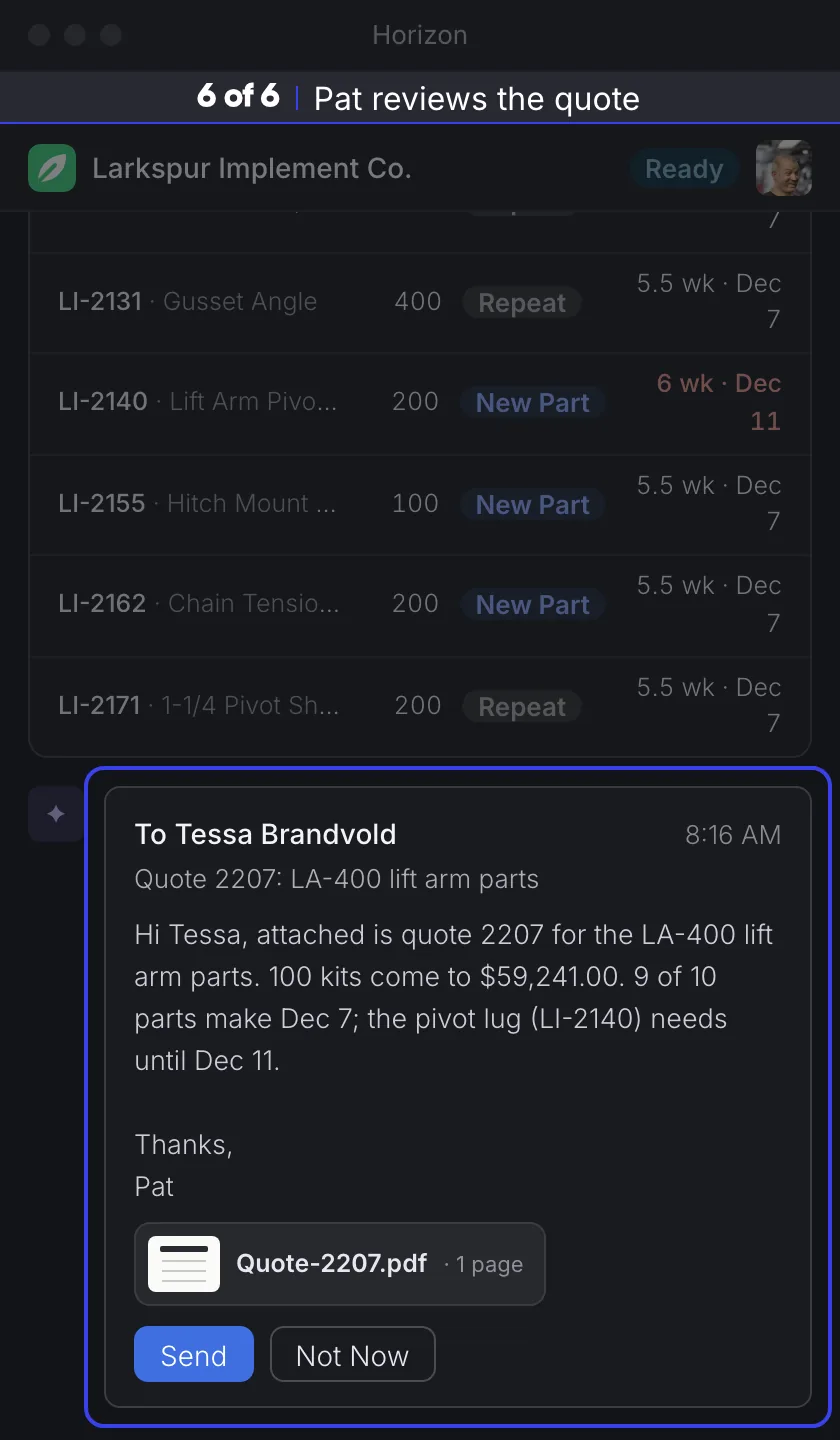
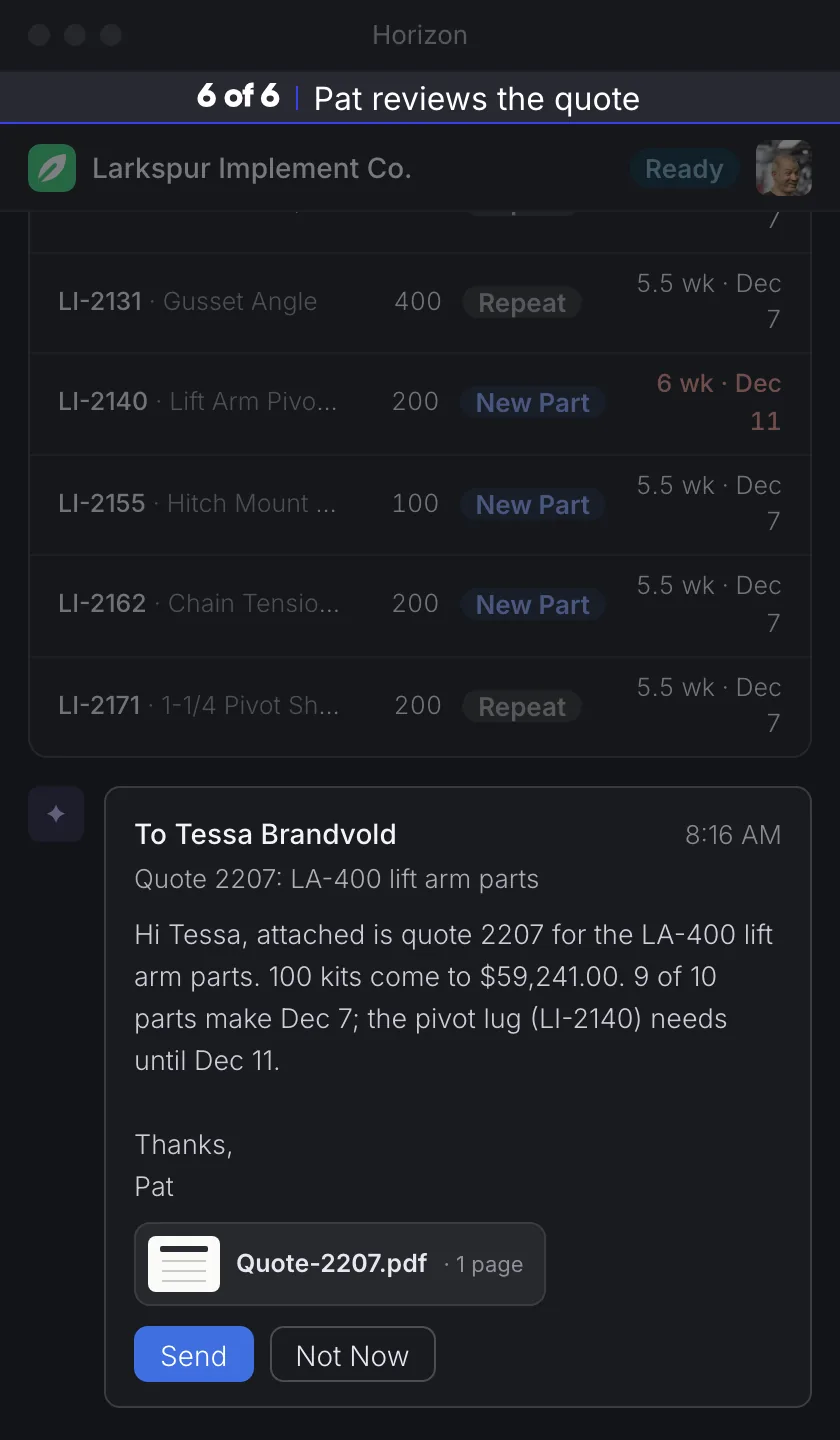
horizon: the focus system stays on the hero loop only, as a spotlight (dim mask cut to the lit element's own box, following it every frame, 250ms moves; no drawn ring); thread and overnight loops back to their pre-focus state; Prairie Powder Coat mark joins shared/marks; hero posters re-rendered

Changed region(s): [[0.0929, 0.5312, 1.0, 1.0]]

diff --git a/horizon/conversation-ribbon/index.html b/horizon/conversation-ribbon/index.html
@@ -11,9 +11,6 @@
   stage header with the big figure and the 4-segment RFQ Quote PO Sales Order bar, stage details card, Quoted Items with
   3 rows + All 10), the thread in the center (no right column), composer. One canvas caption under the window.
 
-  Focus pass (Nov 10): one lit region at a time (ring #3840EA, the rest dims to ~45%), the ring follows the thread scroll, and the
-  now-line in the title bar counts 8 steps: RFQ, estimate, quote drafted, sent, discount decision, sent at $54,501, PO checked, sales order.
-  The rail updates 0.4s after each item under the dim (a quiet crossfade outside the focus).
   Beats (seconds; every new thread item rises 6px / 350ms, the thread scrolls 600ms, rail and pill update 0.4s after):
     0.0  resolved: the whole thread, ending on "Passed contract review" and "Created sales order SO3318 in Fulcrum";
          rail "Sales Order · $54,501.00 · SO3318 · PO 77812-R1", all four segments lit, pill Ordered (hold 3.0s)
@@ -241,18 +238,6 @@
   .hz-conversation-ribbon *, .hz-conversation-ribbon *::before, .hz-conversation-ribbon *::after { transition: none !important; animation: none !important; }
 }
 
-
-/* ---------- focus system (Nov 10): one lit region, the rest dims; the now-line in the title bar names the step ---------- */
-.hz-conversation-ribbon { --hz-dim: rgba(19,20,24,.55); --hz-ease: cubic-bezier(.45,0,.55,1); }
-.hz-conversation-ribbon .hz-focus { position: absolute; left: 0; top: 0; width: 0; height: 0; border: 2px solid #3840EA; border-radius: 10px; box-shadow: 0 0 14px 4000px var(--hz-dim); opacity: 0; z-index: 40; pointer-events: none;
-  transition: left .3s var(--hz-ease), top .3s var(--hz-ease), width .3s var(--hz-ease), height .3s var(--hz-ease), opacity .3s ease; }
-.hz-conversation-ribbon .hz-focus.is-on { opacity: 1; }
-.hz-conversation-ribbon .hz-now { position: absolute; right: 14px; top: 6px; height: 24px; z-index: 60; display: inline-flex; align-items: center; gap: 8px; padding: 0 10px 0 9px; border-radius: 6px; background: #292932; border: 1px solid #3840EA; color: #fff; font-size: 13px; line-height: 1; white-space: nowrap; pointer-events: none; font-family: var(--font); }
-.hz-conversation-ribbon .hz-now b { font-family: 'Gilroy', 'Inter', sans-serif; font-weight: 600; font-variant-numeric: tabular-nums; }
-.hz-conversation-ribbon .hz-now b::after { content: ''; display: inline-block; width: 1px; height: 12px; background: #3840EA; margin: 0 0 -2px 8px; }
-.hz-conversation-ribbon.is-phone .hz-now { left: 0; right: 0; top: 36px; height: 26px; border-radius: 0; border-width: 0 0 1px; justify-content: center; font-size: 16px; }
-.hz-conversation-ribbon.is-phone .hzk-app { padding-top: 26px; }
-
 /* ---------- phone: a 420x720 stage. The thread fills the width; the sales-order panel is hidden. ---------- */
 .hz-conversation-ribbon.is-phone .hz-conversation-ribbon-stage,
 .hz-conversation-ribbon.is-phone .cr-win { width: 420px; height: 720px; }
@@ -421,24 +406,6 @@
   function init(root) {
     var $ = function (id) { return root.querySelector('#' + SLUG + '-' + id); };
     var list = $('list'), view = list.parentNode, rail = $('rail'), pill = $('pill');
-    var stageEl = root.querySelector('.' + SLUG + '-stage');
-    var ring = document.createElement('div'); ring.className = 'hz-focus'; ring.setAttribute('aria-hidden', 'true'); stageEl.appendChild(ring);
-    var now = document.createElement('div'); now.className = 'hz-now'; now.innerHTML = '<b></b><span></span>'; stageEl.appendChild(now);
-    var nowN = now.firstChild, nowT = now.lastChild, STEPS = 8;
-    var fTargets = [], fPad = 8, fRaf = 0, fUntil = 0;
-    function place() {
-      if (!fTargets || !fTargets.length || !ring) return;
-      var st = stageEl.getBoundingClientRect(), k = st.width / (root.classList.contains('is-phone') ? 420 : 1200) || 1, x0 = 1e9, y0 = 1e9, x1 = -1e9, y1 = -1e9, any = false;
-      fTargets.forEach(function (el) { var r = el.getBoundingClientRect(); if (!r.width && !r.height) return; any = true;
-        x0 = Math.min(x0, (r.left - st.left) / k); y0 = Math.min(y0, (r.top - st.top) / k); x1 = Math.max(x1, (r.right - st.left) / k); y1 = Math.max(y1, (r.bottom - st.top) / k); });
-      if (!any) return;
-      ring.style.left = (x0 - fPad) + 'px'; ring.style.top = (y0 - fPad) + 'px'; ring.style.width = (x1 - x0 + 2 * fPad) + 'px'; ring.style.height = (y1 - y0 + 2 * fPad) + 'px';
-    }
-    function follow() { place(); if (performance.now() < fUntil) fRaf = requestAnimationFrame(follow); }
-    function focus(els, pad) { fTargets = [].concat(els).filter(Boolean); fPad = pad == null ? 8 : pad; ring.classList.add('is-on'); cancelAnimationFrame(fRaf); if (instant) { place(); return; } fUntil = performance.now() + 1100; follow(); }
-    function step(n, label) { nowN.textContent = n + ' of ' + STEPS; nowT.textContent = label; }
-    function last() { return list.lastElementChild; }
-    function item(key) { return $(key); }
 
     function fit() {
       var w = root.clientWidth || 1200;
@@ -447,7 +414,6 @@
       var SW = phone ? 420 : 1200, SH = phone ? 720 : 750, s = w / SW;
       root.style.setProperty('--s', String(s));
       root.style.height = Math.round(SH * s) + 'px';
-      if (typeof place === 'function') place();
     }
     fit();
     if (window.ResizeObserver) new ResizeObserver(fit).observe(root); else window.addEventListener('resize', fit);
@@ -499,29 +465,28 @@
       ['rfq', 'fold', 'parts', 'quote', 'reply', 'margin', 'decision', 'po', 'pocheck', 'ask', 'r1', 'review', 'so'].forEach(add);
       sent('quote'); sent('decision'); sent('ask'); setRail('so'); scrollToEnd();
       instant = was;
-      step(8, 'Sales order created'); focus(last(), 8);
     }
 
     /* ---------- timeline ---------- */
     var TL = [
       { t: 0.0,  fn: resolved },
-      { t: 3.0,  fn: function () { clearThread(); step(1, 'The RFQ arrives'); focus(root.querySelector('.cr-head'), 6); } },
-      { t: 3.5,  fn: function () { add('rfq'); focus(last(), 8); } },
-      { t: 6.2,  fn: function () { add('fold'); step(2, 'Estimated all 10 parts'); focus(last(), 8); } },
-      { t: 6.9,  fn: function () { add('parts'); later(400, function () { setRail('rfq1'); }); focus(last(), 8); } },
-      { t: 9.6,  fn: function () { add('quote'); later(400, function () { setRail('quote0'); }); step(3, 'Quote drafted'); focus(item('quote'), 8); } },
-      { t: 12.3, fn: function () { sent('quote'); later(400, function () { setRail('quote1'); }); step(4, 'A person sent it'); focus(item('quote'), 8); } },
-      { t: 15.0, fn: function () { add('reply'); step(5, 'Tessa asks for $54,500'); focus(last(), 8); } },
-      { t: 17.7, fn: function () { add('margin'); focus(last(), 8); } },
-      { t: 18.2, fn: function () { add('decision'); step(5, 'A discount: needs you'); focus(item('decision'), 8); } },
-      { t: 20.9, fn: function () { sent('decision'); later(400, function () { setRail('quote2'); }); step(6, 'Sent at $54,501'); focus(item('decision'), 8); } },
-      { t: 23.6, fn: function () { add('po'); later(400, function () { setRail('po'); }); step(7, 'The PO arrives'); focus(last(), 8); } },
-      { t: 26.3, fn: function () { add('pocheck'); step(7, 'PO vs quote: 1 line missing'); focus(last(), 8); } },
-      { t: 29.0, fn: function () { add('ask'); step(7, 'Asks for a revised PO'); focus(item('ask'), 8); } },
-      { t: 31.7, fn: function () { sent('ask'); focus(item('ask'), 8); } },
-      { t: 32.5, fn: function () { add('r1'); step(8, 'Revised PO arrives'); focus(last(), 8); } },
-      { t: 35.2, fn: function () { add('review'); step(8, 'Passed contract review'); focus(last(), 8); } },
-      { t: 36.5, fn: function () { add('so'); later(400, function () { setRail('so'); }); step(8, 'Sales order created'); focus(last(), 8); } }
+      { t: 3.0,  fn: clearThread },
+      { t: 3.5,  fn: function () { add('rfq'); } },
+      { t: 6.2,  fn: function () { add('fold'); } },
+      { t: 6.9,  fn: function () { add('parts'); later(400, function () { setRail('rfq1'); }); } },
+      { t: 9.6,  fn: function () { add('quote'); later(400, function () { setRail('quote0'); }); } },
+      { t: 12.3, fn: function () { sent('quote'); later(400, function () { setRail('quote1'); }); } },
+      { t: 15.0, fn: function () { add('reply'); } },
+      { t: 17.7, fn: function () { add('margin'); } },
+      { t: 18.2, fn: function () { add('decision'); } },
+      { t: 20.9, fn: function () { sent('decision'); later(400, function () { setRail('quote2'); }); } },
+      { t: 23.6, fn: function () { add('po'); later(400, function () { setRail('po'); }); } },
+      { t: 26.3, fn: function () { add('pocheck'); } },
+      { t: 29.0, fn: function () { add('ask'); } },
+      { t: 31.7, fn: function () { sent('ask'); } },
+      { t: 32.5, fn: function () { add('r1'); } },
+      { t: 35.2, fn: function () { add('review'); } },
+      { t: 36.5, fn: function () { add('so'); later(400, function () { setRail('so'); }); } }
     ];
 
     var q = (typeof location !== 'undefined' && location.search) || '';
@@ -532,11 +497,10 @@
       var at = parseFloat(mAt[1]) % LOOP_END;
       root.classList.add('is-seek'); instant = true; seekAt = at;
       TL.forEach(function (b) { if (b.t <= at) { curT = b.t; b.fn(); } });
-      scrollToEnd(); place();
-      if (document.fonts && document.fonts.ready) document.fonts.ready.then(function () { scrollToEnd(); place(); });
+      scrollToEnd();
       return;
     }
-    if (mStill || reduced) { root.classList.add('is-seek'); resolved(); place(); if (document.fonts && document.fonts.ready) document.fonts.ready.then(function () { scrollToEnd(); place(); }); return; }
+    if (mStill || reduced) { root.classList.add('is-seek'); resolved(); return; }
 
     /* ---------- play, with in-view gating (pause keeps the elapsed time) ---------- */
     var elapsed = 0, startedAt = 0, running = false;

diff --git a/horizon/overnight-reveal/index.html b/horizon/overnight-reveal/index.html
@@ -8,8 +8,6 @@
   Halden Metalworks sample data, Outlook named as the inbox source, purple spark for the AI (no "H" avatar), one lime
   accent dot, lines rise 6px / 350ms (no typing: there is no drafted email in this loop), in-view + tab-hidden pause.
 
-  Focus pass (Nov 10): one lit region at a time (ring #3840EA, the canvas dims to ~45%); the now-line counts 5 steps:
-  Reading the shop, Your shop, How you work, Your rules, What comes to you. The reading panel keeps flowing under the dim.
   Beats (seconds):
     0.0  resolved: counters at 18,402 / 3,115 / 7,980, clock at Mon 7 am, drawer "Read", full result card
          (3 eyebrows, 4 facts, 4 rules with 2 "Evaluating" flags, both closing lines), hold 3s
@@ -190,19 +188,6 @@
   .hz-overnight-reveal *,.hz-overnight-reveal *::before,.hz-overnight-reveal *::after{ transition:none !important; animation:none !important; }
 }
 
-
-/* ---------- focus system (Nov 10): one lit region, the rest dims (white canvas: a light dim); the now-line in the title bar ---------- */
-.hz-overnight-reveal{ --hz-dim: rgba(255,255,255,.62); --hz-ease: cubic-bezier(.45,0,.55,1); }
-.hz-overnight-reveal .hz-focus{ position:absolute; left:0; top:0; width:0; height:0; border:2px solid #3840EA; border-radius:10px; box-shadow:0 0 14px 4000px var(--hz-dim); opacity:0; z-index:40; pointer-events:none;
-  transition:left .3s var(--hz-ease), top .3s var(--hz-ease), width .3s var(--hz-ease), height .3s var(--hz-ease), opacity .3s ease; }
-.hz-overnight-reveal .hz-focus.is-on{ opacity:1; }
-.hz-overnight-reveal .hz-now{ position:absolute; right:14px; top:6px; height:24px; z-index:60; display:inline-flex; align-items:center; gap:8px; padding:0 10px 0 9px; border-radius:6px; background:#292932; border:1px solid #3840EA; color:#fff; font-size:13px; line-height:1; white-space:nowrap; pointer-events:none; font-family:'Inter',system-ui,sans-serif; }
-.hz-overnight-reveal .hz-now b{ font-family:'Gilroy','Inter',sans-serif; font-weight:600; font-variant-numeric:tabular-nums; }
-.hz-overnight-reveal .hz-now b::after{ content:''; display:inline-block; width:1px; height:12px; background:#3840EA; margin:0 0 -2px 8px; }
-.hz-overnight-reveal.is-phone .hz-now{ left:0; right:0; top:36px; height:26px; border-radius:0; border-width:0 0 1px; justify-content:center; font-size:16px; }
-.hz-overnight-reveal.is-phone .hz-overnight-reveal-stage .hz-overnight-reveal-title{ top:76px; }
-.hz-overnight-reveal.is-phone .hz-overnight-reveal-stage .hz-overnight-reveal-left, .hz-overnight-reveal.is-phone .hz-overnight-reveal-stage .hz-overnight-reveal-right{ top:106px; height:622px; }
-
 /* ---------- phone: a 420x700 stage showing the shop letter. The reading panel is hidden. ---------- */
 .hz-overnight-reveal.is-phone .hz-overnight-reveal-frame { aspect-ratio: 420/740; }
 .hz-overnight-reveal.is-phone .hz-overnight-reveal-stage { width: 420px; height: 740px; }
@@ -367,24 +352,6 @@
     var $ = function(id){ return root.querySelector('#' + SLUG + '-' + id); };
     var frame = root.querySelector('.' + SLUG + '-frame');
     var left = $('left');
-    var stageEl = root.querySelector('.' + SLUG + '-stage'), right = root.querySelector('.' + SLUG + '-right');
-    var ring = document.createElement('div'); ring.className = 'hz-focus'; ring.setAttribute('aria-hidden', 'true'); stageEl.appendChild(ring);
-    var now = document.createElement('div'); now.className = 'hz-now'; now.innerHTML = '<b></b><span></span>'; stageEl.appendChild(now);
-    var nowN = now.firstChild, nowT = now.lastChild, STEPS = 5;
-    var fTargets = [], fPad = 8, fRaf = 0, fUntil = 0;
-    function place(){
-      if (!fTargets || !fTargets.length || !ring) return;
-      var st = stageEl.getBoundingClientRect(), k = st.width / (root.classList.contains('is-phone') ? 420 : 1200) || 1, x0 = 1e9, y0 = 1e9, x1 = -1e9, y1 = -1e9, any = false;
-      fTargets.forEach(function(el){ var r = el.getBoundingClientRect(); if (!r.width && !r.height) return; if (getComputedStyle(el).opacity === '0') return; any = true;
-        x0 = Math.min(x0, (r.left - st.left) / k); y0 = Math.min(y0, (r.top - st.top) / k); x1 = Math.max(x1, (r.right - st.left) / k); y1 = Math.max(y1, (r.bottom - st.top) / k); });
-      if (!any) return;
-      ring.style.left = (x0 - fPad) + 'px'; ring.style.top = (y0 - fPad) + 'px'; ring.style.width = (x1 - x0 + 2 * fPad) + 'px'; ring.style.height = (y1 - y0 + 2 * fPad) + 'px';
-    }
-    function follow(){ place(); if (performance.now() < fUntil) fRaf = requestAnimationFrame(follow); }
-    function focus(els, pad){ fTargets = [].concat(els).filter(Boolean); fPad = pad == null ? 8 : pad; ring.classList.add('is-on'); cancelAnimationFrame(fRaf); if (instant){ place(); return; } fUntil = performance.now() + 1100; follow(); }
-    function step(n, label){ nowN.textContent = n + ' of ' + STEPS; nowT.textContent = label; }
-    // on phones the reading panel hides once the letter starts, so the lit region is the letter's group
-    function group(a, b){ return function(){ var els = INS.slice(a, b + 1); if (root.classList.contains('is-phone')) return els; return els; }; }
     var nums = [$('n0'), $('n1'), $('n2')];
 
     // build the flow cards, the "what it read" list and the card lines once
@@ -411,7 +378,6 @@
       var SW = phone ? 420 : 1200, SH = phone ? 740 : 750, s = w / SW;
       root.style.setProperty('--s', s.toFixed(5));
       if (!(window.CSS && CSS.supports && CSS.supports('aspect-ratio', '1 / 1'))) frame.style.height = (SH * s) + 'px';
-      if (typeof place === 'function') place();
     }
     fit();
     if (window.ResizeObserver) new ResizeObserver(fit).observe(root); else window.addEventListener('resize', fit);
@@ -442,21 +408,18 @@
     }
 
     /* ---- state setters ---- */
-    function startReading(off){ left.classList.add('is-reading'); root.classList.add('is-reading'); step(1, 'Reading the shop'); focus(left, 10); $('dlabel').textContent = 'Reading'; $('when').textContent = 'draft'; tween(READ_MS, off, setProgress); }
+    function startReading(off){ left.classList.add('is-reading'); root.classList.add('is-reading'); $('dlabel').textContent = 'Reading'; $('when').textContent = 'draft'; tween(READ_MS, off, setProgress); }
     function doneReading(){ left.classList.remove('is-reading'); root.classList.remove('is-reading'); $('dlabel').textContent = 'Read'; $('when').textContent = 'Mon 7:02 am'; setProgress(1); }
     var rules = root.querySelector('.' + SLUG + '-rules');
-    var GROUPS = [[0, 2, 2, 'Your shop'], [3, 5, 3, 'How you work'], [6, 10, 4, 'Your rules'], [11, 12, 5, 'What comes to you']];
-    function show(i){ return function(){ INS[i].classList.add('is-on'); if (INS[i] === $('eb2')) rules.classList.add('is-on');
-      GROUPS.forEach(function(g){ if (i >= g[0] && i <= g[1]) { step(g[2], g[3]); focus(INS.slice(g[0], i + 1), 8); } }); }; }
+    function show(i){ return function(){ INS[i].classList.add('is-on'); if (INS[i] === $('eb2')) rules.classList.add('is-on'); }; }
     function softReset(){ root.classList.add('is-reset'); }
     function resolved(){
       root.classList.remove('is-reset');
       doneReading();
       INS.forEach(function(e){ e.classList.add('is-on'); }); rules.classList.add('is-on');
-      step(5, 'What comes to you'); focus(right, 10);
     }
     function clear(){
-      stopAll(); step(1, 'Reading the shop'); focus(left, 10);
+      stopAll();
       root.classList.remove('is-reset');
       left.classList.remove('is-reading', 'is-day'); root.classList.remove('is-reading');
       $('dlabel').textContent = 'Reading'; $('when').textContent = 'draft'; setProgress(0);
@@ -489,7 +452,6 @@
     function seek(at){
       instant = true; root.classList.add('is-noanim'); stopAll(); clear();
       TL.forEach(function(b){ if (b.t <= at) b.fn(at - b.t); });
-      place();
       void root.offsetWidth; root.classList.remove('is-noanim'); instant = false;
     }
     var pos0 = 0, t0 = 0, playing = false;
@@ -535,7 +497,7 @@
     /* ---- boot ---- */
     var q = {}; try { q = Object.fromEntries(new URLSearchParams(window.location.search)); } catch (e) {}
     var reduced = !!(window.matchMedia && window.matchMedia('(prefers-reduced-motion: reduce)').matches);
-    if (q.still || reduced){ seek(0); if (document.fonts && document.fonts.ready) document.fonts.ready.then(place); }
+    if (q.still || reduced){ seek(0); }
     else if (q.at !== undefined){ root.classList.add('is-seek'); seek(((parseFloat(q.at) || 0) % LOOP + LOOP) % LOOP); }
     else { seek(0); play(0, false); enableGating(); }
   }

diff --git a/horizon/hero-email-lands/index.html b/horizon/hero-email-lands/index.html
@@ -453,10 +453,10 @@
 /* ---------- focus system (Nov 10): one lit region, the rest dims; the ring travels between beats ---------- */
 .hz-hero-email-lands { --hz-dim: rgba(19,20,24,.55); --hz-ease: cubic-bezier(.45,0,.55,1); }
 .hz-hero-email-lands.is-outlook { --hz-dim: rgba(255,255,255,.6); }
-.hz-hero-email-lands .hz-focus { position: absolute; left: 0; top: 0; width: 0; height: 0; border: 2px solid #3840EA; border-radius: 10px; box-shadow: 0 0 14px 4000px var(--hz-dim); opacity: 0; z-index: 40; pointer-events: none;
-  transition: left .3s var(--hz-ease), top .3s var(--hz-ease), width .3s var(--hz-ease), height .3s var(--hz-ease), opacity .3s ease, box-shadow .3s ease; }
+.hz-hero-email-lands .hz-focus { position: absolute; left: 0; top: 0; width: 0; height: 0; border: 0; border-radius: 10px; box-shadow: 0 0 0 4000px var(--hz-dim); opacity: 0; z-index: 40; pointer-events: none; transition: opacity .3s ease; }
+.hz-hero-email-lands .hz-focus.is-move { transition: left .25s var(--hz-ease), top .25s var(--hz-ease), width .25s var(--hz-ease), height .25s var(--hz-ease), border-radius .25s var(--hz-ease), opacity .3s ease; }
 .hz-hero-email-lands .hz-focus.is-on { opacity: 1; }
-.hz-hero-email-lands .hz-focus.is-slow { transition-duration: 1s, 1s, 1s, 1s, .3s, .3s; }
+.hz-hero-email-lands .hz-focus.is-move.is-slow { transition-duration: 1s, 1s, 1s, 1s, 1s, .3s; }
 .hz-hero-email-lands .o-fly { z-index: 50; }
 .hz-hero-email-lands .hz-now { position: absolute; right: 14px; top: 6px; height: 24px; z-index: 60; display: inline-flex; align-items: center; gap: 8px; padding: 0 10px 0 9px; border-radius: 6px; background: #292932; border: 1px solid #3840EA; color: #fff; font-size: 13px; line-height: 1; white-space: nowrap; pointer-events: none; }
 .hz-hero-email-lands .hz-now b { font-family: 'Gilroy', 'Inter', sans-serif; font-weight: 600; font-variant-numeric: tabular-nums; }
@@ -867,15 +867,15 @@ Pat</div>
       });
       if (!any) return;
       ring.style.left = (x0 - fPad) + 'px'; ring.style.top = (y0 - fPad) + 'px'; ring.style.width = (x1 - x0 + 2 * fPad) + 'px'; ring.style.height = (y1 - y0 + 2 * fPad) + 'px';
+      ring.style.borderRadius = fTargets.length === 1 ? (getComputedStyle(fTargets[0]).borderRadius || '0px') : '10px';
     }
-    function follow() { place(); if (performance.now() < fUntil) fRaf = requestAnimationFrame(follow); }
+    function follow() { place(); if (performance.now() > fUntil) ring.classList.remove('is-move', 'is-slow'); fRaf = requestAnimationFrame(follow); }
     // focus(el | [els], pad, slow): the ring moves to the element(s) over 300ms (1s when slow) and follows them while the thread scrolls
     function focus(els, pad, slow) {
-      fTargets = [].concat(els).filter(Boolean); fPad = pad == null ? 8 : pad;
-      ring.classList.toggle('is-slow', !!slow); ring.classList.add('is-on');
-      cancelAnimationFrame(fRaf);
-      if (instant) { place(); return; }
-      fUntil = performance.now() + (slow ? 1400 : 1100); follow();
+      fTargets = [].concat(els).filter(Boolean); fPad = pad == null ? 0 : pad;
+      ring.classList.add('is-on'); cancelAnimationFrame(fRaf);
+      if (instant) { ring.classList.remove('is-move', 'is-slow'); place(); return; }
+      ring.classList.add('is-move'); ring.classList.toggle('is-slow', !!slow); fUntil = performance.now() + (slow ? 1050 : 320); follow();
     }
     function step(n, label) { nowN.textContent = n + ' of 6'; nowT.textContent = label; }
     function outlook(on) { root.classList.toggle('is-outlook', !!on); }

diff --git a/horizon/shared/marks/MARKS.md b/horizon/shared/marks/MARKS.md
@@ -19,6 +19,7 @@ Inline rule used in the loops and the band: the `<span>` that used to hold initi
 | `harbor` | Harbor Fluid Systems | `#3840EA` | blue | an anchor |
 | `tri-county` | Tri-County Trailer | `#FF5C16` | orange | a trailer |
 | `summit` | Summit Powder Coating | `#3d414a` | slate | a peak with a snowcap: vendor |
+| `prairie` | Prairie Powder Coat | `#8ED7E6` | aqua | grass blades: vendor; drawn by the video build, copied here unchanged |
 | `person` | Any person (Tessa Brandvold, Dev Castillo, Priya Natarajan, Hana Sato, Tom Reyes, Mia Brooks, Ana Suarez, Emily S., Pat) | `#2a2d36` | avatar gray | head and shoulders |
 
 Fills are shared where there are more companies than palette colors (Harbor with Marlin, Tri-County with Pinecrest, Summit with Halden); the glyph tells them apart.
@@ -95,4 +96,10 @@ Fills are shared where there are more companies than palette colors (Harbor with
 
 ```svg
 <svg viewBox="0 0 24 24" xmlns="http://www.w3.org/2000/svg" width="24" height="24" role="img" aria-label="Any person"><rect width="24" height="24" rx="6" fill="#2a2d36"/><circle cx="12" cy="9" r="3.1" fill="#fff"/><path fill="#fff" d="M6 19.5c0-3.6 2.7-6 6-6s6 2.4 6 6z"/></svg>
+```
+
+### Prairie Powder Coat (`prairie.svg`)
+
+```svg
+<svg viewBox="0 0 24 24" xmlns="http://www.w3.org/2000/svg" width="24" height="24" role="img" aria-label="Prairie Powder Coat"><rect width="24" height="24" rx="6" fill="#8ED7E6"/><path fill="#fff" d="M11 19.5C11 13.5 11.3 8.5 12 4c.7 4.5 1 9.500 1 15.500zM7.200 19.500C7 15 5.800 11.500 3.800 9c3 2 5.200 5.800 5.600 10.500zM16.800 19.500C17 15 18.200 11.500 20.200 9c-3 2-5.200 5.800-5.600 10.500z"/></svg>
 ```
